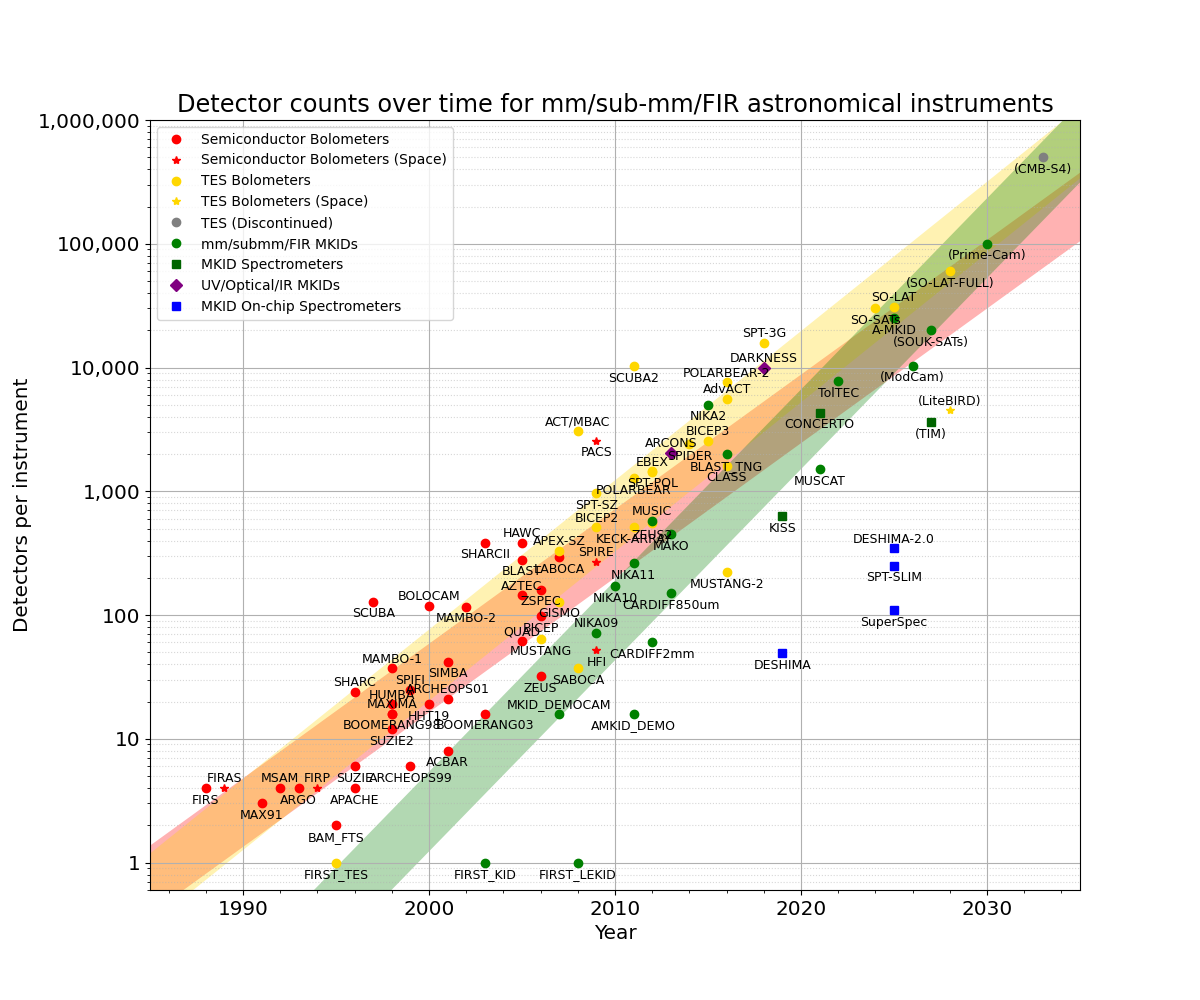
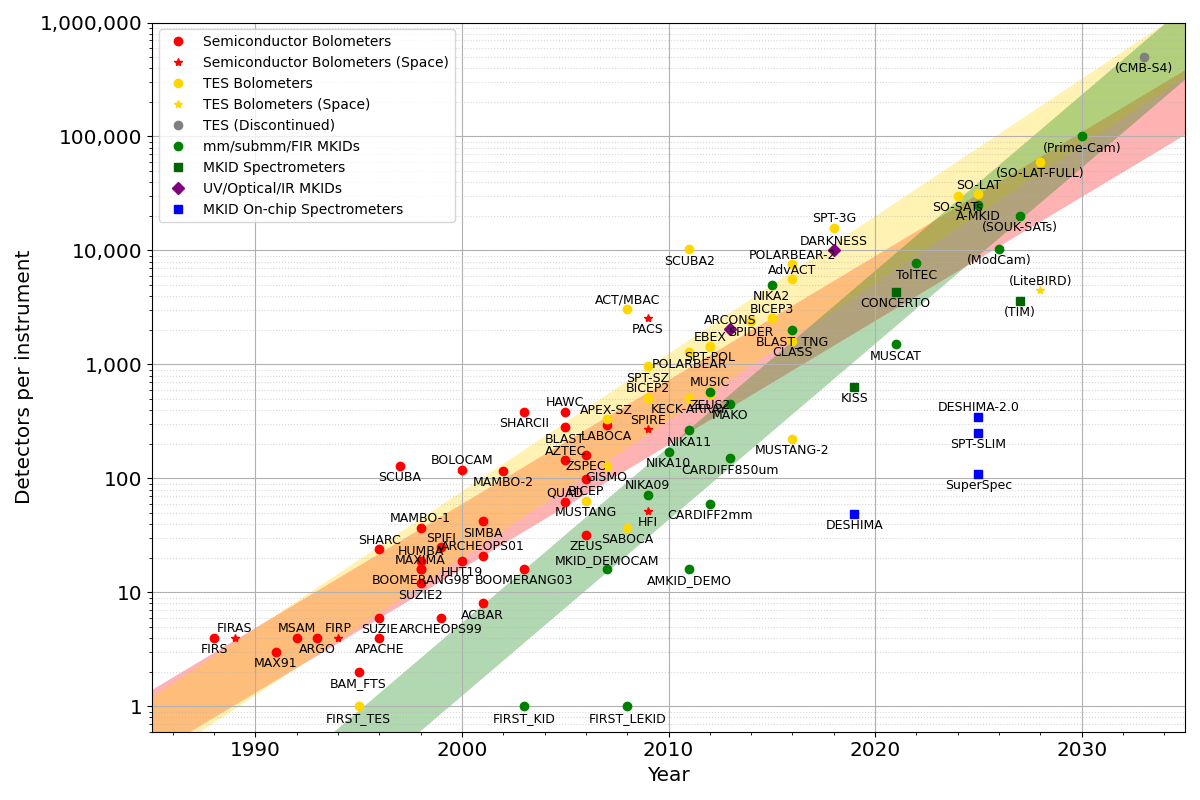
final tweaks

diff --git a/instruments.py b/instruments.py
@@ -17,7 +17,7 @@ textPositionLower=['KISS','SPT-SLIM','TolTEC','TIM','ModCam','SOUK-SATs','SO-LAT
 futureYear = 2025
 
 #prepare plot and add points
-f = plt.figure(figsize=(12,10))
+f = plt.figure(figsize=(12,8))
 ax = f.add_subplot(111)
 ####for i in instruments:
   #####choose colour / marker
@@ -228,8 +228,8 @@ plt.grid(which='major')
 plt.grid(which='minor', axis='y', linestyle=':', alpha=0.5)
 ax.minorticks_on()
 plt.legend(loc = 0, numpoints = 1)
-plt.title('Detector counts over time for mm/sub-mm/FIR astronomical instruments', fontsize='xx-large')
-#plt.tight_layout()
+#plt.title('Detector counts over time for mm/sub-mm/FIR astronomical instruments', fontsize='xx-large')
+plt.tight_layout()
 plt.savefig('instruments.png')
 
 plt.show()
